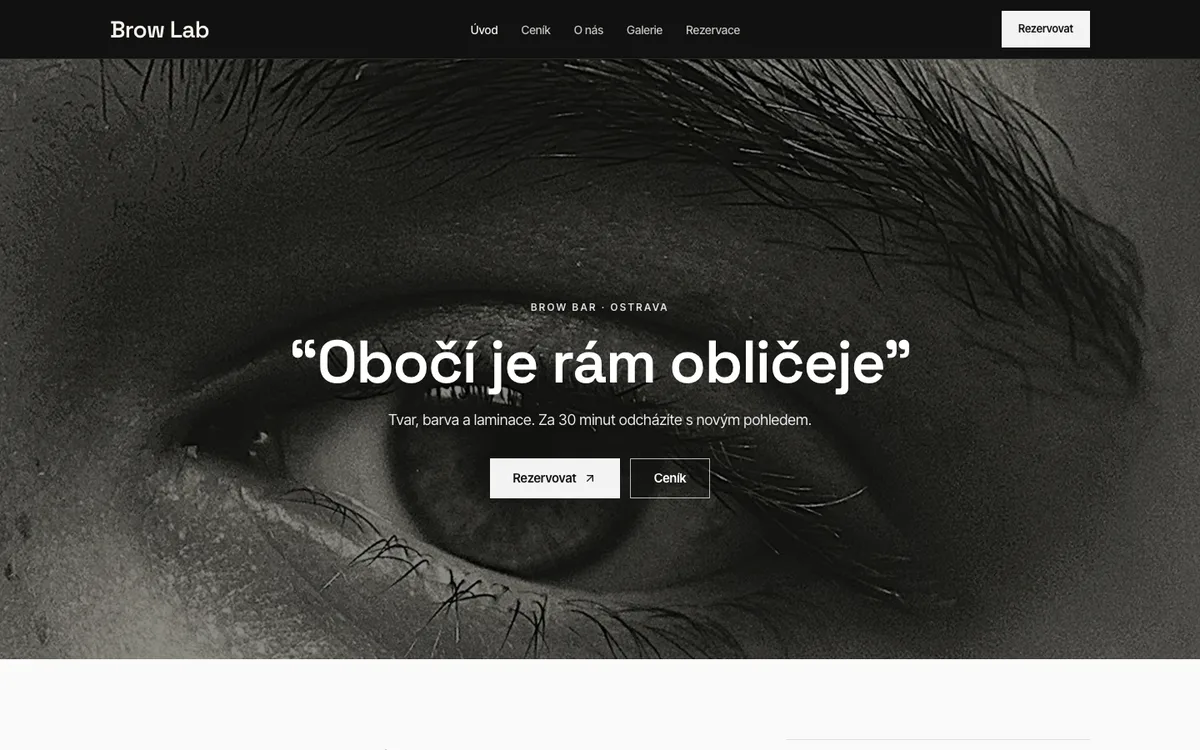
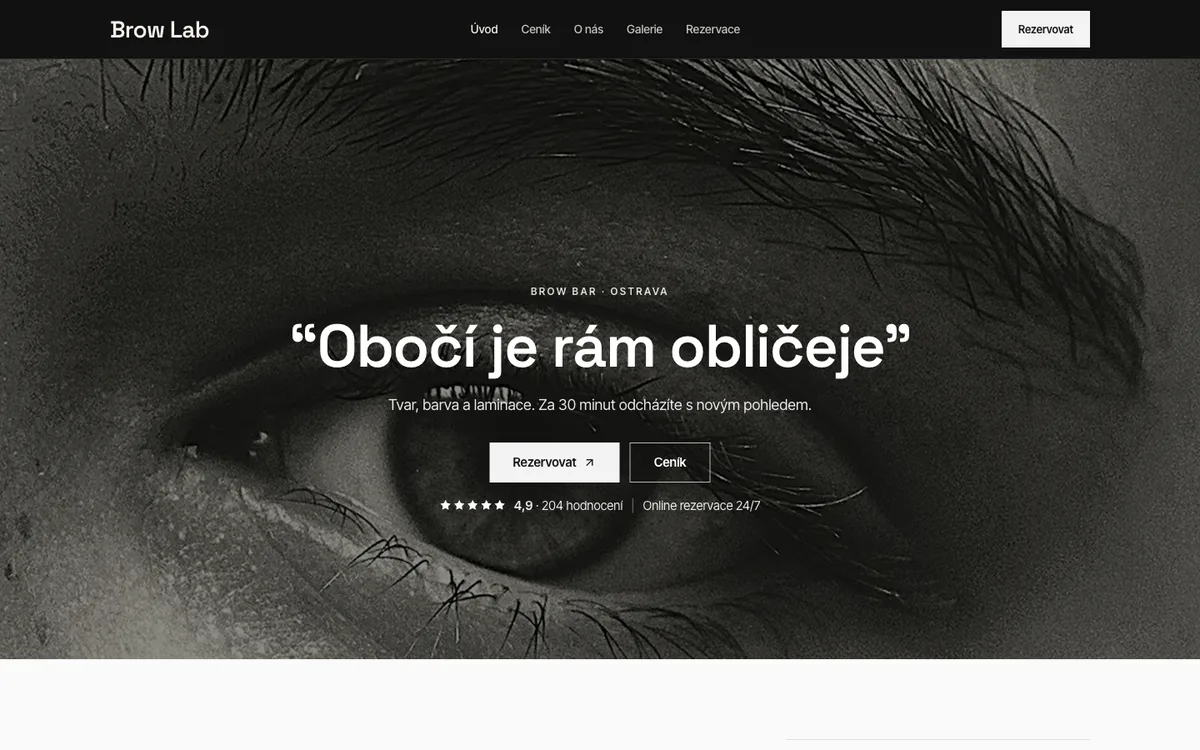
Website templates, premium round 2: 10 more kit demos
rosewater-nails, siena-spa, north-barber, lune-lash, bloom-bar, studio-grey,
kader-co, olive-skin, glow-room, brow-lab get the rating line, reviews strip,
hours + address + illustrative map, multi-column footer and the phone
booking bar (content in templates/content/extras.ts). Kit team members use
first names only (some Vietnamese at the nail studios); brand names removed
from kit price lists and highlights. Previews re-captured.

Claude-Session: https://claude.ai/code/session_017c4zKCY4B7y9u7XMffj4Nh

diff --git a/src/components/website/kit/specs.ts b/src/components/website/kit/specs.ts
@@ -18,7 +18,7 @@ const MENUS = {
   hair: [
     ["Střih a styling", [["Dámský střih a foukaná", 60, 990, "Mytí, střih, styling"], ["Pánský střih", 40, 590], ["Foukaná", 45, 590, "Dle délky vlasů", true], ["Společenský účes", 60, 1290, undefined, true]]],
     ["Barva", [["Barvení odrostu", 90, 1490], ["Celoplošná barva", 120, 1890, undefined, true], ["Balayage", 180, 3290, "Včetně tónování", true], ["Gloss / tónování", 45, 790]]],
-    ["Péče", [["Olaplex kúra", 30, 450], ["Keratinové narovnání", 150, 3490, undefined, true], ["Regenerační kúra", 30, 390]]],
+    ["Péče", [["Kúra pro posílení vlasů", 30, 450], ["Keratinové narovnání", 150, 3490, undefined, true], ["Regenerační kúra", 30, 390]]],
   ],
   curly: [
     ["Kudrnaté vlasy", [["Curly střih na sucho", 75, 1290, "Střih kudrlinu po kudrlině"], ["Curly konzultace", 30, 300], ["Definice a styling", 45, 790], ["Curly střih pro děti", 45, 690]]],
@@ -52,7 +52,7 @@ const MENUS = {
   ],
   skin: [
     ["Ošetření pleti", [["Konzultace a diagnostika pleti", 30, 300], ["Hloubkové čištění pleti", 75, 1290], ["Hydratační ošetření", 60, 1490], ["Chemický peeling", 45, 1690, undefined, true]]],
-    ["Přístrojová péče", [["Dermapen", 60, 2990], ["Hydrafacial", 60, 2490], ["LED terapie", 30, 690]]],
+    ["Přístrojová péče", [["Mikrojehličkování", 60, 2990], ["Hloubková hydratace přístrojem", 60, 2490], ["LED terapie", 30, 690]]],
     ["Doplňky", [["Masáž obličeje", 30, 790], ["Laminace obočí", 45, 890]]],
   ],
   makeup: [
@@ -215,7 +215,7 @@ const SPECS: Spec[] = [
     hl: [["Gel lak do 3 týdnů", "Bez odlupování."], ["Kávu uvaříme", "Nebo čaj, jak chcete."], ["Online rezervace", "Za minutu je hotovo."]],
     closing: ["Přijďte si odpočinout", "Vyberte si službu a čas."],
     story: "Rosewater vzniklo z lásky k jemným nehtům. Pracujeme ve třech, v malém studiu na Vinohradech, kde je slyšet jen tichá hudba.",
-    team: [["Klára Malá", "Majitelka", "French a nude manikúra."], ["Tereza Kubíčková", "Nail designérka", "Drobné zdobení a chrom."]],
+    team: [["Klára", "Majitelka", "French a nude manikúra."], ["Ngọc", "Nail designérka", "Drobné zdobení a chrom."]],
     address: "Ukázková 28, 120 00 Praha 2",
     photos: {
       hero: ["n8", "Růžová French manikúra"],
@@ -251,7 +251,7 @@ const SPECS: Spec[] = [
     hl: [["Teplé oleje", "Nahřáté na teplotu těla."], ["Párová suita", "Masáž pro dva najednou."], ["Dárkové poukazy", "Na jakoukoli proceduru."]],
     closing: ["Dopřejte si klid", "Termín vyberete online."],
     story: "Siena je malé masážní studio v centru Brna. Teplé barvy, lněné ručníky a terapeutky, které masáži rozumí.",
-    team: [["Lucie Šťastná", "Terapeutka", "Klasická a aromaterapeutická masáž."], ["Petra Dvořáková", "Terapeutka", "Lávové kameny a masáž obličeje."]],
+    team: [["Lucie", "Terapeutka", "Klasická a aromaterapeutická masáž."], ["Petra", "Terapeutka", "Lávové kameny a masáž obličeje."]],
     address: "Ukázková 7, 602 00 Brno",
     photos: {
       hero: ["r2", "Masáž hlavy v teplém prostředí"],
@@ -287,7 +287,7 @@ const SPECS: Spec[] = [
     hl: [["Rezervace", "Termín online za minutu."], ["Konzultace", "Řekněte nám, co chcete."], ["Horký ručník", "Na závěr každého holení."]],
     closing: ["Křeslo je volné", "Vyberte si barbera a čas."],
     story: "North jsme otevřeli v Karlíně pro chlapy, kteří chtějí dobrý střih bez zbytečných řečí. Tři křesla, gramofon a dobrá káva.",
-    team: [["Tomáš Král", "Barber", "Fade a krátké střihy."], ["Ondřej Beneš", "Barber", "Vousy a holení břitvou."]],
+    team: [["Tomáš", "Barber", "Fade a krátké střihy."], ["Ondřej", "Barber", "Vousy a holení břitvou."]],
     address: "Ukázková 41, 186 00 Praha 8",
     hours: [["Po – Pá", "10:00 – 20:00"], ["So", "9:00 – 15:00"]],
     photos: {
@@ -325,7 +325,7 @@ const SPECS: Spec[] = [
     hl: [["Hypoalergenní lepidlo", "Vhodné i pro citlivé oči."], ["Doplnění do 3 týdnů", "Za zvýhodněnou cenu."], ["Klidné lehátko", "Většina klientek usne."]],
     closing: ["Rezervujte si chvíli pro sebe", "Termín vyberete online."],
     story: "Lune je malé studio na Smíchově. Specializujeme se na přirozené řasy a obočí, které zvýrazní, ale nepřebijí.",
-    team: [["Nikola Horáková", "Lash artist", "Klasika 1:1 a jemný objem."], ["Eliška Pokorná", "Brow artist", "Laminace a henna brows."]],
+    team: [["Nikola", "Lash artist", "Klasika 1:1 a jemný objem."], ["Eliška", "Brow artist", "Laminace a henna brows."]],
     address: "Ukázková 9, 150 00 Praha 5",
     photos: {
       hero: ["e19", "Jemné oční linky a řasy"],
@@ -361,7 +361,7 @@ const SPECS: Spec[] = [
     hl: [["Barevná konzultace", "Zkusíme odstín na pramenu."], ["Šetrné odbarvení", "Vždy s ochranou vlasu."], ["Péče domů", "Doporučíme šampon na barvu."]],
     closing: ["Jakou barvu zkusíte?", "Rezervujte si konzultaci."],
     story: "Bloom je barevný salon v Holešovicích. Hrajeme si s odstíny, ale vlasy hlídáme jako své vlastní.",
-    team: [["Bára Svobodová", "Koloristka", "Pastelové a neonové odstíny."], ["Kristýna Fialová", "Koloristka", "Balayage a měděné tóny."]],
+    team: [["Bára", "Koloristka", "Pastelové a neonové odstíny."], ["Kristýna", "Koloristka", "Balayage a měděné tóny."]],
     address: "Ukázková 55, 170 00 Praha 7",
     photos: {
       hero: ["c0", "Růžové vlasy v pohybu"],
@@ -479,7 +479,7 @@ const SPECS: Spec[] = [
     hl: [["90 minut na klientku", "Čas na konzultaci i styling."], ["Bez fénu na závěr", "Pokud chcete přirozený tvar."], ["Soukromý salonek", "Pro klid a diskrétnost."]],
     closing: ["Rezervujte si první konzultaci", "Těšíme se na vás."],
     story: "Studio Grey je malé studio v klidné vilové čtvrti. Nebudeme vám prodávat trendy. Najdeme střih, který je váš.",
-    team: [["Veronika Šimková", "Senior stylistka", "Dlouhé vrstvené střihy."], ["Jakub Moravec", "Stylista", "Krátké střihy a bob."]],
+    team: [["Veronika", "Senior stylistka", "Dlouhé vrstvené střihy."], ["Jakub", "Stylista", "Krátké střihy a bob."]],
     address: "Ukázková 4, 160 00 Praha 6",
     photos: {
       hero: ["c3", "Rovné blond vlasy zezadu"],
@@ -516,7 +516,7 @@ const SPECS: Spec[] = [
     hl: [["Dětský koutek", "Pastelky a pohádky."], ["Parkování", "Přímo před salonem."], ["Rezervace", "Online i telefonicky."]],
     closing: ["Domluvte si termín", "Rádi vás uvidíme."],
     story: "Kadeř & Co jsme otevřely v roce 2016 s jednou myšlenkou: kadeřnictví, kam se těší celá rodina.",
-    team: [["Michaela Černá", "Kadeřnice", "Barvy a dámské střihy."], ["Hana Procházková", "Kadeřnice", "Pánské a dětské střihy."]],
+    team: [["Michaela", "Kadeřnice", "Barvy a dámské střihy."], ["Hana", "Kadeřnice", "Pánské a dětské střihy."]],
     address: "Ukázková 22, 301 00 Plzeň",
     photos: {
       hero: ["i6", "Světlý salon plný rostlin"],
@@ -549,10 +549,10 @@ const SPECS: Spec[] = [
     title: "Zdravá pleť bez filtru",
     lead: "Diagnostika, čištění a přístrojová péče. Plán ošetření na míru vaší pleti.",
     intro: ["Nejdřív poznat pleť", "Každé první ošetření začíná diagnostikou. Pak víme, co pleť potřebuje a co ne."],
-    hl: [["Diagnostika pleti", "Před prvním ošetřením."], ["Domácí péče", "Poradíme, co používat."], ["Certifikované přístroje", "Dermapen a Hydrafacial."]],
+    hl: [["Diagnostika pleti", "Před prvním ošetřením."], ["Domácí péče", "Poradíme, co používat."], ["Certifikované přístroje", "Mikrojehličkování a hydratace."]],
     closing: ["Začněte konzultací", "Termín vyberete online."],
     story: "Olive je kosmetický salon zaměřený na zdravou pleť. Nevěříme na zázraky v kelímku, věříme na pravidelnou péči.",
-    team: [["Barbora Kučerová", "Kosmetička", "Problematická pleť a akné."], ["Monika Zemanová", "Kosmetička", "Přístrojová péče a anti-age."]],
+    team: [["Barbora", "Kosmetička", "Problematická pleť a akné."], ["Monika", "Kosmetička", "Přístrojová péče a anti-age."]],
     address: "Ukázková 14, 779 00 Olomouc",
     photos: {
       hero: ["f0", "Zdravá zářivá pleť"],
@@ -588,7 +588,7 @@ const SPECS: Spec[] = [
     hl: [["Prémiová kosmetika", "Profesionální značky."], ["Kurzy líčení", "Pro jednu i pro dvě."], ["Výjezd za vámi", "Na svatby a focení."]],
     closing: ["Jaký look si dnes vyberete?", "Rezervujte si termín."],
     story: "Glow Room je studio s velkým zrcadlem a ještě větší sbírkou štětců. Líčíme na plesy, svatby i do kanceláře.",
-    team: [["Natálie Kopecká", "Vizážistka", "Svatební a večerní líčení."], ["Simona Holubová", "Vizážistka", "Kurzy a líčení na focení."]],
+    team: [["Natálie", "Vizážistka", "Svatební a večerní líčení."], ["Simona", "Vizážistka", "Kurzy a líčení na focení."]],
     address: "Ukázková 30, 130 00 Praha 3",
     photos: {
       hero: ["m8", "Výrazné růžové líčení"],
@@ -624,7 +624,7 @@ const SPECS: Spec[] = [
     hl: [["Rychle", "Většina služeb do 45 minut."], ["Bez objednání", "Volná místa ve všední dny."], ["Henna i barva", "Podle typu pleti."]],
     closing: ["Nové obočí do oběda", "Rezervujte si termín."],
     story: "Brow Lab je malý bar zaměřený jen na obočí a řasy. Děláme jednu věc, ale pořádně.",
-    team: [["Denisa Navrátilová", "Brow artist", "Laminace a henna."], ["Lenka Matoušková", "Brow & lash artist", "Lash lifting a barvení."]],
+    team: [["Denisa", "Brow artist", "Laminace a henna."], ["Lenka", "Brow & lash artist", "Lash lifting a barvení."]],
     address: "Ukázková 6, 702 00 Ostrava",
     photos: {
       hero: ["e26", "Černobílý detail obočí"],
@@ -661,7 +661,7 @@ const SPECS: Spec[] = [
     hl: [["Ruční malba", "Žádné samolepky."], ["Chrom a 3D", "Moderní techniky."], ["Návrh předem", "Pošlete nám inspiraci."]],
     closing: ["Jaký design chcete?", "Rezervujte si termín."],
     story: "Velour vzniklo z lásky k nail artu. Naše manikérky se školily v Londýně a v Soulu.",
-    team: [["Viktorie Pešková", "Nail artistka", "Chrom a 3D zdobení."], ["Adriana Kolářová", "Nail artistka", "Ruční malba a French."]],
+    team: [["Viktorie", "Nail artistka", "Chrom a 3D zdobení."], ["Trang", "Nail artistka", "Ruční malba a French."]],
     address: "Ukázková 63, 120 00 Praha 2",
     photos: {
       hero: ["n0", "Červené nehty se zdobením"],
@@ -698,7 +698,7 @@ const SPECS: Spec[] = [
     hl: [["Holení břitvou", "S horkým ručníkem."], ["Pivo nebo káva", "Podle nálady."], ["Vlastní kosmetika", "Pomády a oleje."]],
     closing: ["Přijďte do křesla", "Rezervace online."],
     story: "Copper & Blade je barbershop v podloubí na náměstí. Starý nábytek, nové nástroje a barbeři s praxí.",
-    team: [["Lukáš Kratochvíl", "Head barber", "Klasické střihy a břitva."], ["Filip Sedláček", "Barber", "Fade a úprava vousů."]],
+    team: [["Lukáš", "Head barber", "Klasické střihy a břitva."], ["Filip", "Barber", "Fade a úprava vousů."]],
     address: "Ukázková 2, 370 01 České Budějovice",
     hours: [["Po – Pá", "9:00 – 19:00"], ["So", "9:00 – 13:00"]],
     photos: {
@@ -735,7 +735,7 @@ const SPECS: Spec[] = [
     hl: [["Koupel nohou", "Na začátku každé masáže."], ["Bylinné měšce", "Plněné thajskými bylinami."], ["Čaj na závěr", "Zázvorový nebo jasmínový."]],
     closing: ["Uvolněte se", "Rezervujte si termín."],
     story: "Lotus vede tým terapeutek s certifikátem z chrámu Wat Pho v Bangkoku. Tradice, klid a vůně citronové trávy.",
-    team: [["Mali Suwan", "Terapeutka", "Tradiční thajská masáž."], ["Lina Chai", "Terapeutka", "Olejová masáž a bylinné měšce."]],
+    team: [["Mali", "Terapeutka", "Tradiční thajská masáž."], ["Lina", "Terapeutka", "Olejová masáž a bylinné měšce."]],
     address: "Ukázková 11, 460 01 Liberec",
     hours: [["Po – Ne", "10:00 – 21:00"]],
     photos: {
@@ -772,7 +772,7 @@ const SPECS: Spec[] = [
     hl: [["Střih na sucho", "Kudrlinu po kudrlině."], ["Curly metoda", "Bez sulfátů a silikonů."], ["Lekce stylingu", "Součást každé návštěvy."]],
     closing: ["Přijďte se svými kudrlinami", "Rezervujte si konzultaci."],
     story: "Curl Club jsme založily, protože jsme samy roky hledaly kadeřnici, která kudrlinám rozumí.",
-    team: [["Zuzana Bartošová", "Curly specialistka", "Střih na sucho a typ 3–4."], ["Gabriela Urbanová", "Kadeřnice", "Hydratace a barvy."]],
+    team: [["Zuzana", "Curly specialistka", "Střih na sucho a typ 3–4."], ["Gabriela", "Kadeřnice", "Hydratace a barvy."]],
     address: "Ukázková 19, 602 00 Brno",
     photos: {
       hero: ["c20", "Šťastné tmavé kudrliny"],
@@ -808,7 +808,7 @@ const SPECS: Spec[] = [
     hl: [["Zkouška předem", "Bez stresu ve svatební den."], ["Výjezd na místo", "Na zámek i do hotelu."], ["Celý tým", "I pro družičky a maminky."]],
     closing: ["Kdy máte svatbu?", "Rezervujte si zkoušku."],
     story: "Bridal Suite připravuje nevěsty už osm let. Víme, jak udržet účes v dešti a líčení při slzách.",
-    team: [["Kateřina Benešová", "Svatební stylistka", "Účesy a vlasové ozdoby."], ["Lea Doležalová", "Vizážistka", "Svatební a dlouhotrvající líčení."]],
+    team: [["Kateřina", "Svatební stylistka", "Účesy a vlasové ozdoby."], ["Lea", "Vizážistka", "Svatební a dlouhotrvající líčení."]],
     address: "Ukázková 8, 110 00 Praha 1",
     photos: {
       hero: ["w9", "Nevěsta se závojem"],
@@ -845,7 +845,7 @@ const SPECS: Spec[] = [
     hl: [["Přesná práce", "Kůžička bez zarudnutí."], ["Krátké čekání", "Vždy na čas."], ["Nude paleta", "40 odstínů tělové."]],
     closing: ["Rezervujte si termín", "Online za minutu."],
     story: "Mono je studio pro ty, kdo milují jednoduchost. Bílé stěny, jedno světlo, dokonalé nehty.",
-    team: [["Alžběta Krejčí", "Manikérka", "Kombinovaná manikúra."], ["Iveta Vlčková", "Manikérka", "Gel lak a French."]],
+    team: [["Alžběta", "Manikérka", "Kombinovaná manikúra."], ["Hà", "Manikérka", "Gel lak a French."]],
     address: "Ukázková 1, 500 02 Hradec Králové",
     photos: {
       hero: ["n10", "Minimalistická manikúra"],
@@ -881,7 +881,7 @@ const SPECS: Spec[] = [
     hl: [["Klubová atmosféra", "Kůže, dřevo, jazz."], ["Rituál 90 minut", "Střih, vousy, maska."], ["Dárkové poukazy", "Pro otce i přátele."]],
     closing: ["Rezervujte si křeslo", "Online nebo telefonicky."],
     story: "Gentlemen's Club navazuje na tradici britských barberů. Precizní řemeslo, klid a čas jen pro vás.",
-    team: [["Richard Holub", "Master barber", "Holení břitvou a klasické střihy."], ["Daniel Hájek", "Barber", "Moderní střihy a vousy."]],
+    team: [["Richard", "Master barber", "Holení břitvou a klasické střihy."], ["Daniel", "Barber", "Moderní střihy a vousy."]],
     address: "Ukázková 25, 110 00 Praha 1",
     hours: [["Po – Pá", "10:00 – 20:00"], ["So", "10:00 – 16:00"]],
     photos: {
@@ -920,7 +920,7 @@ const SPECS: Spec[] = [
     hl: [["Výhled na řeku", "Z bazénu i odpočívárny."], ["Celodenní vstup", "Odcházíte, až chcete."], ["Lehký oběd", "V ceně balíčku."]],
     closing: ["Naplánujte si volný den", "Rezervace online."],
     story: "Riverside je denní spa na břehu řeky. Světlé dřevo, velká okna a tým, který se postará o vše ostatní.",
-    team: [["Tereza Marková", "Spa manažerka", "Balíčky na míru."], ["Jan Pospíšil", "Terapeut", "Relaxační a hloubková masáž."]],
+    team: [["Tereza", "Spa manažerka", "Balíčky na míru."], ["Jan", "Terapeut", "Relaxační a hloubková masáž."]],
     address: "Ukázková 15, 360 01 Karlovy Vary",
     hours: [["Po – Ne", "9:00 – 21:00"]],
     photos: {
@@ -957,7 +957,7 @@ const SPECS: Spec[] = [
     hl: [["Sterilní nástroje", "Vždy nové balení."], ["Přístrojová pedikúra", "Šetrná k pokožce."], ["Masáž nohou", "Na závěr každé péče."]],
     closing: ["Dopřejte nohám odpočinek", "Rezervujte si termín."],
     story: "Aqua je studio zaměřené na péči o nohy. Pedikérky s praxí a čisté, světlé prostředí.",
-    team: [["Renata Machová", "Pedikérka", "Přístrojová a zdravotní pedikúra."], ["Ilona Sýkorová", "Manikérka", "Gel lak a SPA manikúra."]],
+    team: [["Renata", "Pedikérka", "Přístrojová a zdravotní pedikúra."], ["Mai", "Manikérka", "Gel lak a SPA manikúra."]],
     address: "Ukázková 33, 530 02 Pardubice",
     photos: {
       hero: ["p0", "Koupel nohou s květy"],
@@ -991,10 +991,10 @@ const SPECS: Spec[] = [
     title: "Blond, stříbrná i levandulová",
     lead: "Specializujeme se na světlé a studené tóny. Šetrně, krok za krokem.",
     intro: ["Barva bez kompromisů", "Odbarvujeme postupně a s ochranou vlasu. Raději dvě návštěvy než zničené vlasy."],
-    hl: [["Test na pramenu", "Před každým odbarvením."], ["Ochrana vlasu", "Olaplex v ceně."], ["Plán barvy", "Na několik návštěv."]],
+    hl: [["Test na pramenu", "Před každým odbarvením."], ["Ochrana vlasu", "Posilující kúra v ceně."], ["Plán barvy", "Na několik návštěv."]],
     closing: ["Jaký odstín chcete?", "Rezervujte si konzultaci."],
     story: "Halo je salon dvou koloristek, které milují světlé tóny. Odbarvujeme pomalu a zodpovědně.",
-    team: [["Jitka Pavlíková", "Koloristka", "Platinová blond a stříbrná."], ["Markéta Šindelářová", "Koloristka", "Pastelové a levandulové tóny."]],
+    team: [["Jitka", "Koloristka", "Platinová blond a stříbrná."], ["Markéta", "Koloristka", "Pastelové a levandulové tóny."]],
     address: "Ukázková 47, 140 00 Praha 4",
     photos: {
       hero: ["c1", "Levandulové vlny"],
@@ -1031,7 +1031,7 @@ const SPECS: Spec[] = [
     hl: [["Kombinované balíčky", "Pleť + řasy + nehty."], ["Světlý salon", "Velká okna a rostliny."], ["Ranní termíny", "Od 7:30."]],
     closing: ["Udělejte si odpoledne pro sebe", "Rezervace online."],
     story: "Mila je salon pro ženy, které chtějí vše vyřešit najednou. Kosmetička, manikérka i lash artist v jednom týmu.",
-    team: [["Andrea Bílková", "Kosmetička", "Čištění a hydratace pleti."], ["Šárka Kolínová", "Manikérka", "Gel lak a nude odstíny."]],
+    team: [["Andrea", "Kosmetička", "Čištění a hydratace pleti."], ["Šárka", "Manikérka", "Gel lak a nude odstíny."]],
     address: "Ukázková 10, 760 01 Zlín",
     hours: [["Po – Pá", "7:30 – 19:00"], ["So", "9:00 – 14:00"]],
     photos: {

diff --git a/src/components/website/templates/content/extras.ts b/src/components/website/templates/content/extras.ts
@@ -136,4 +136,115 @@ export const EXTRAS: Record<string, Extras> = {
       { text: "Malé skupiny, nikde tlačenice. Župan a čaj v ceně jsou milý detail.", name: "Roman", service: "Termální okruh" },
     ],
   },
+  // Đợt 2 (kit)
+  "rosewater-nails": {
+    rating: "4,9",
+    count: 228,
+    transit: "Tramvaj 2 minuty pěšky, náměstí za rohem",
+    area: "Vinohrady",
+    reviews: [
+      { text: "Jemná French přesně podle mé fotky. Ngọc je trpělivá a pečlivá.", name: "Lucie", service: "Manikúra s gel lakem" },
+      { text: "Krásné růžové studio, voní tu a hraje příjemná hudba. Nehty drží tři týdny.", name: "Eliška", service: "Gelová modeláž" },
+      { text: "Objednávám se online vždy na další termín rovnou při placení. Pohodlné.", name: "Hana", service: "Doplnění gelu" },
+    ],
+  },
+  "siena-spa": {
+    rating: "4,9",
+    count: 174,
+    transit: "Tramvaj 3 minuty pěšky, centrum na dosah",
+    area: "Brno-střed",
+    reviews: [
+      { text: "Aromaterapeutická masáž po dlouhém týdnu. Odcházela jsem úplně jinak, než jsem přišla.", name: "Kamila", service: "Aromaterapeutická masáž" },
+      { text: "Párová masáž jako dárek k výročí. Klid, čaj a teplé ručníky.", name: "Michal", service: "Párová masáž" },
+      { text: "Lucie najde každé zatuhlé místo. Záda bez bolesti poprvé po měsících.", name: "Jitka", service: "Masáž zad a šíje" },
+    ],
+  },
+  "north-barber": {
+    rating: "4,9",
+    count: 311,
+    transit: "Metro 2 minuty pěšky, parkování v ulici",
+    area: "Karlín",
+    reviews: [
+      { text: "Skin fade bez chyby a za 50 minut. Lepší barbershop jsem v okolí nenašel.", name: "Jakub", service: "Skin fade" },
+      { text: "Holení břitvou s horkým ručníkem. Hodina klidu a kafe zdarma.", name: "Martin", service: "Holení břitvou" },
+      { text: "Chodím se synem, oba odcházíme spokojení. Online rezervace funguje skvěle.", name: "Petr", service: "Pánský a dětský střih" },
+    ],
+  },
+  "lune-lash": {
+    rating: "4,9",
+    count: 196,
+    transit: "Tramvaj 2 minuty pěšky, obchodní centrum vedle",
+    area: "Smíchov",
+    reviews: [
+      { text: "Řasy 1:1 vypadají úplně přirozeně. Doplnění jen jednou za tři týdny.", name: "Veronika", service: "Prodlužování řas 1:1" },
+      { text: "Lash lifting a laminace obočí najednou. Ráno mám hotovo za dvě minuty.", name: "Linh", service: "Lash & brow balíček" },
+      { text: "Klidné studio, pohodlné lehátko, skoro jsem usnula.", name: "Adéla", service: "Objem 2–3D" },
+    ],
+  },
+  "bloom-bar": {
+    rating: "4,8",
+    count: 152,
+    transit: "Tramvaj 1 minuta pěšky, kolo zaparkujete u vchodu",
+    area: "Holešovice",
+    reviews: [
+      { text: "Pastelová růžová přesně jak jsem chtěla a vlasy nejsou zničené.", name: "Sára", service: "Pastelové barvy" },
+      { text: "Airtouch bez ostrých přechodů. Bára si dala na konzultaci opravdu záležet.", name: "Tereza", service: "Airtouch" },
+      { text: "Barevný a veselý salon, skvělá parta. Gloss mezi barvením je super tip.", name: "Nela", service: "Gloss / tónování" },
+    ],
+  },
+  "studio-grey": {
+    rating: "4,9",
+    count: 143,
+    transit: "Tramvaj 3 minuty pěšky, park za rohem",
+    area: "Bubeneč",
+    reviews: [
+      { text: "Střih drží tvar i po dvou měsících. Veronika přesně ví, co vlasům sedí.", name: "Kateřina", service: "Dámský střih a foukaná" },
+      { text: "Balayage vypadá jako po dovolené u moře. Žádné pruhy.", name: "Simona", service: "Balayage" },
+      { text: "Minimalistický salon, žádný hluk. Pánský střih za 40 minut.", name: "Vojtěch", service: "Pánský střih" },
+    ],
+  },
+  "kader-co": {
+    rating: "4,8",
+    count: 219,
+    transit: "Tramvaj 2 minuty pěšky, parkování ve dvoře",
+    area: "Plzeň-střed",
+    reviews: [
+      { text: "Rodinný salon, kde se cítím jako doma. Barva vždy přesně podle domluvy.", name: "Jana", service: "Barvení odrostu" },
+      { text: "Michaela mi poradila střih, který zvládnu upravit sama. Paráda.", name: "Lenka", service: "Dámský střih" },
+      { text: "Společenský účes na svatbu sestry vydržel až do rána.", name: "Klára", service: "Společenský účes" },
+    ],
+  },
+  "olive-skin": {
+    rating: "4,9",
+    count: 137,
+    transit: "Tramvaj 2 minuty pěšky, parkování před domem",
+    area: "Olomouc-centrum",
+    reviews: [
+      { text: "Barbora mi po diagnostice sestavila domácí péči. Pleť je klidnější než kdy dřív.", name: "Martina", service: "Konzultace a diagnostika pleti" },
+      { text: "Hloubkové čištění bez bolesti a bez zarudnutí. Vrátím se.", name: "Petra", service: "Hloubkové čištění pleti" },
+      { text: "Čisté, světlé studio a žádné vnucování kosmetiky.", name: "Thảo", service: "Hydratační ošetření" },
+    ],
+  },
+  "glow-room": {
+    rating: "4,9",
+    count: 165,
+    transit: "Tramvaj 2 minuty pěšky, kavárna hned vedle",
+    area: "Žižkov",
+    reviews: [
+      { text: "Líčení na focení vypadalo skvěle naživo i na fotkách. Natálie je profík.", name: "Barbora", service: "Líčení na focení" },
+      { text: "Kurz líčení mi změnil ranní rutinu. Konečně vím, co dělám.", name: "Anh", service: "Individuální kurz líčení" },
+      { text: "Večerní líčení na ples, drželo do čtyř do rána.", name: "Klára", service: "Večerní líčení" },
+    ],
+  },
+  "brow-lab": {
+    rating: "4,9",
+    count: 204,
+    transit: "Tramvaj 3 minuty pěšky, obchodní centrum vedle",
+    area: "Moravská Ostrava",
+    reviews: [
+      { text: "Henna brows vypadají přirozeně a vydržely skoro měsíc.", name: "Denisa", service: "Henna brows" },
+      { text: "Laminace obočí a konečně nemusím každé ráno nic upravovat.", name: "Ivana", service: "Laminace obočí" },
+      { text: "Rychlé, čisté a přesné. Objednání online za minutu.", name: "My", service: "Úprava a barvení" },
+    ],
+  },
 };
